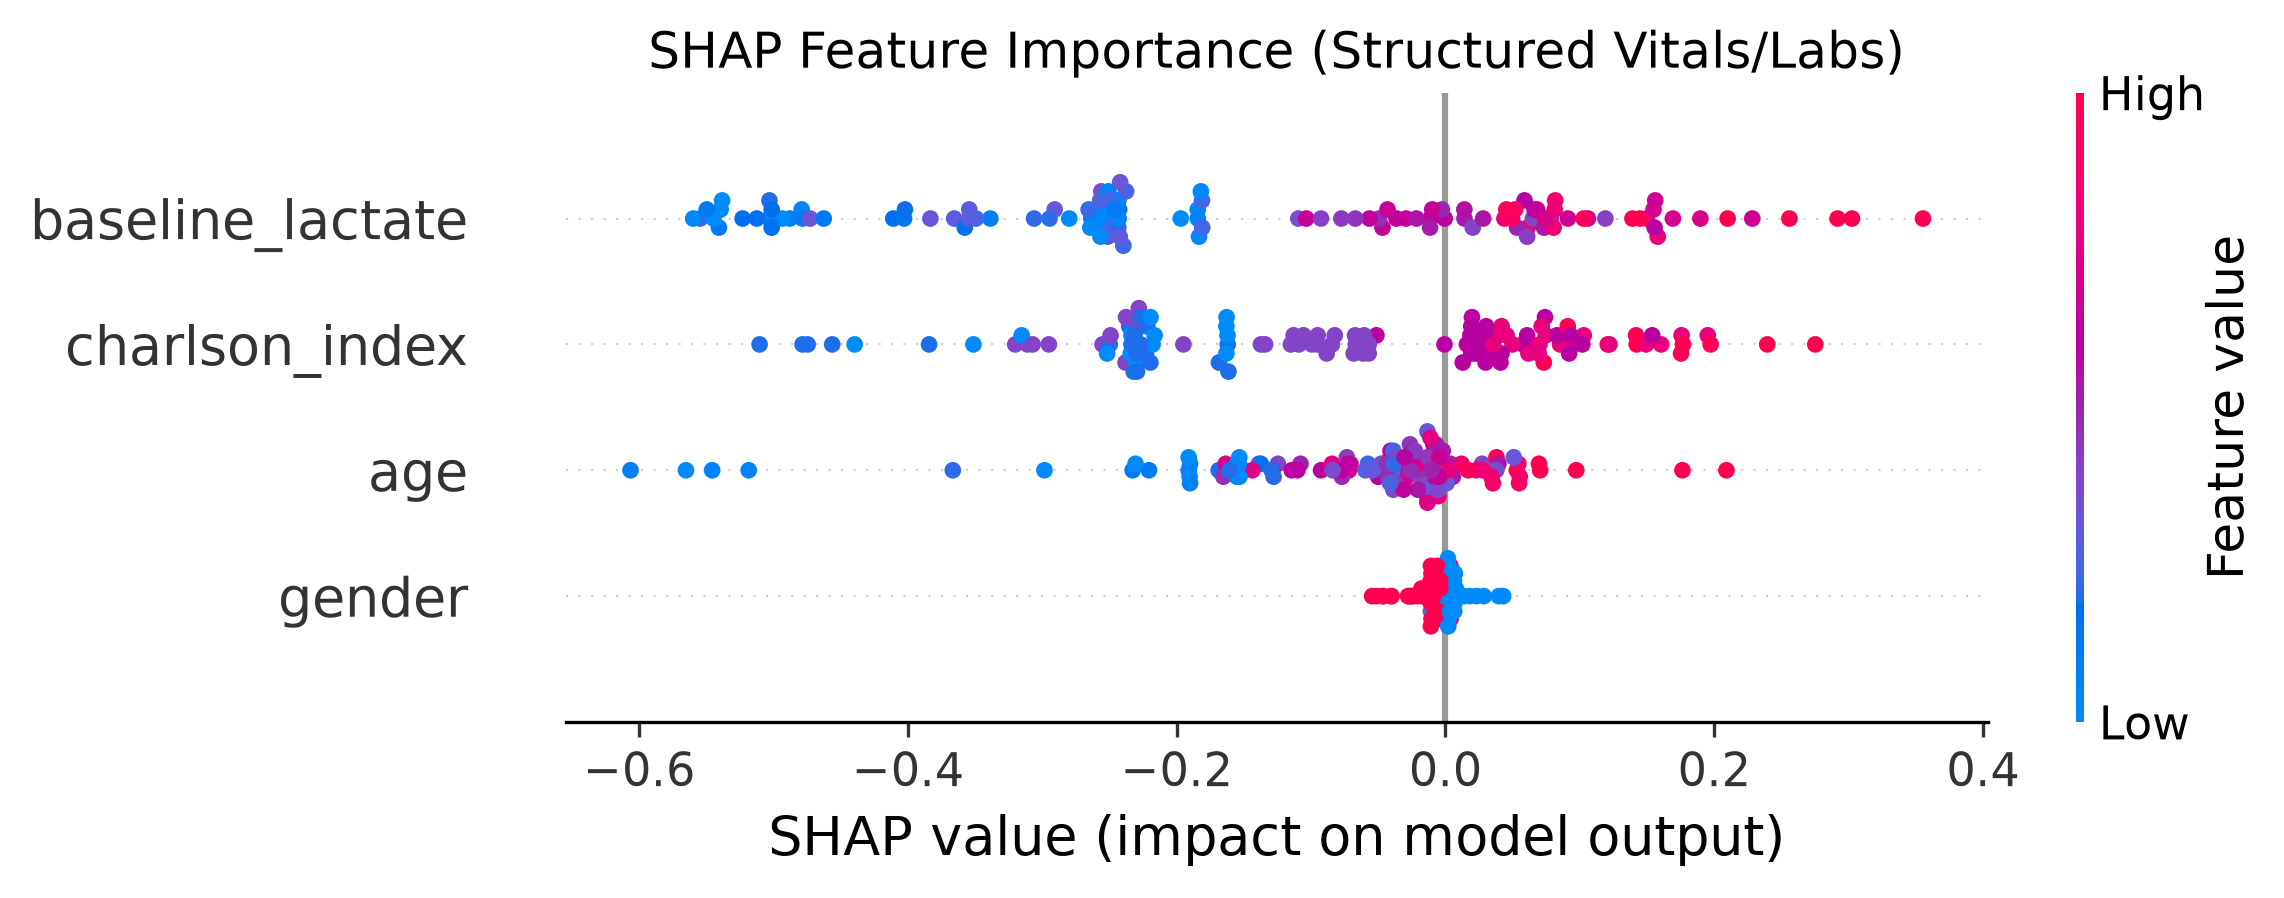
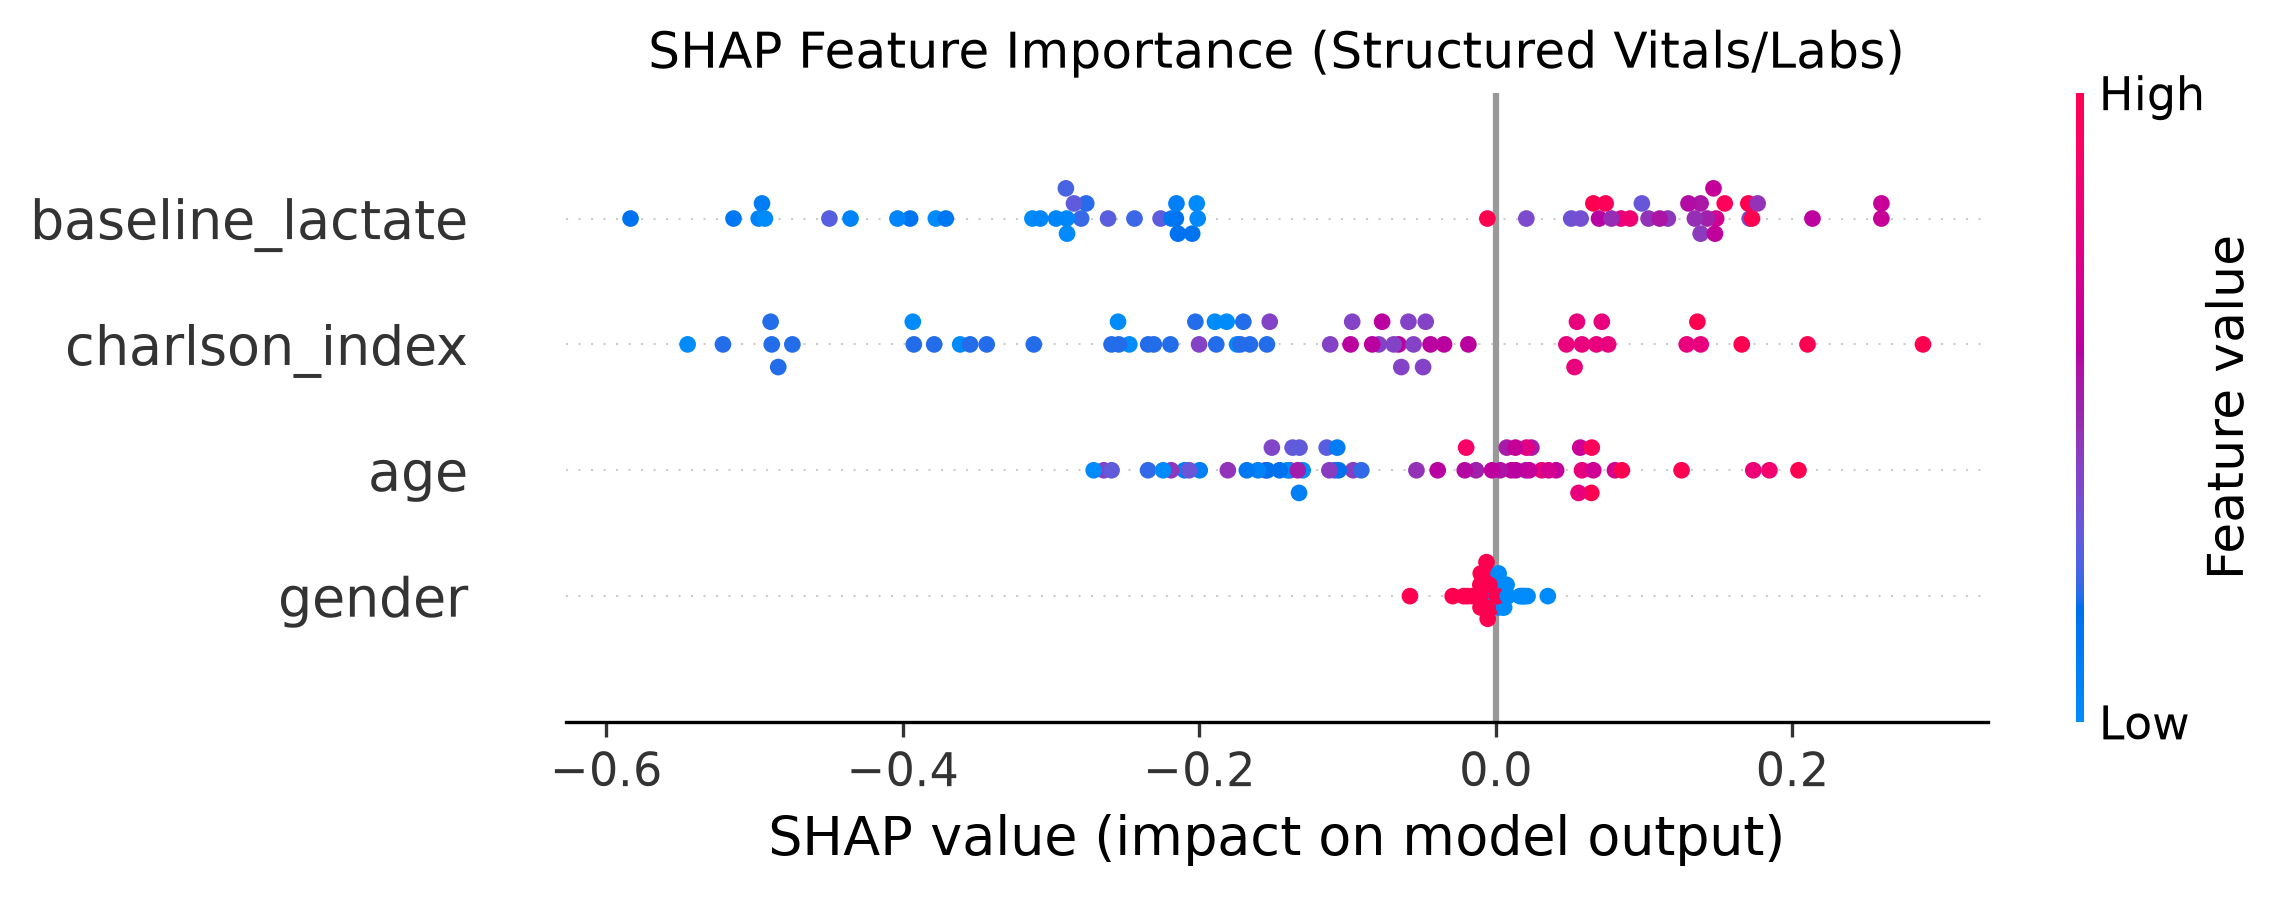
Add safe text fallback mechanism and update 5-fold CV cross validation pipeline

diff --git a/train.py b/train.py
@@ -1,7 +1,6 @@
 import os
 import sys
 
-# Set non-interactive Matplotlib backend BEFORE importing pyplot to prevent Tcl/Tk errors
 import matplotlib
 matplotlib.use('Agg')
 import matplotlib.pyplot as plt
@@ -9,24 +8,21 @@ import matplotlib.pyplot as plt
 import numpy as np
 import torch
 import torch.nn as nn
-from sklearn.model_selection import train_test_split
+from sklearn.model_selection import StratifiedKFold
 from sklearn.preprocessing import StandardScaler
 from sklearn.ensemble import RandomForestClassifier
-from sklearn.feature_extraction.text import TfidfVectorizer
 from sklearn.linear_model import LogisticRegression
-from sklearn.metrics import roc_auc_score, average_precision_score, classification_report
+from sklearn.metrics import roc_auc_score, average_precision_score
 import shap
 
 from src.config import Config
 from src.data_loader import generate_synthetic_data
+from src.models_text import BioClinicalBERTClassifier
 
-# Set random seeds for reproducibility
 np.random.seed(Config.SEED)
 torch.manual_seed(Config.SEED)
 
-# ==========================================
-# 1. TEMPORAL LSTM MODULE
-# ==========================================
+# Temporal LSTM Model
 class TemporalLSTM(nn.Module):
     def __init__(self, input_dim=5, hidden_dim=32, num_layers=1):
         super(TemporalLSTM, self).__init__()
@@ -35,124 +31,122 @@ class TemporalLSTM(nn.Module):
         
     def forward(self, x):
         lstm_out, (h_n, _) = self.lstm(x)
-        last_hidden = h_n[-1]
-        out = torch.sigmoid(self.fc(last_hidden))
-        return out, last_hidden
+        out = torch.sigmoid(self.fc(h_n[-1]))
+        return out
 
-# ==========================================
-# 2. MAIN TRAINING PIPELINE
-# ==========================================
 def main():
-    print("="*60)
-    print("   SEPSIS MULTIMODAL LATE FUSION PIPELINE RUN   ")
-    print("="*60)
+    print("="*65)
+    print("   MULTIMODAL SEPSIS PIPELINE: 5-FOLD CV + BIOCLINICALBERT   ")
+    print("="*65)
 
-    # Step A: Load Data
-    print("\n[1/5] Loading Multimodal Dataset...")
-    tabular_df, time_series_data, text_corpus, labels = generate_synthetic_data(num_patients=600)
+    # 1. Load Data
+    print("\n[1/4] Loading Cohort Dataset...")
+    tabular_df, time_series_data, text_corpus, labels = generate_synthetic_data(num_patients=300)
+
+    # 2. Extract BioClinicalBERT Embeddings
+    print("\n[2/4] Extracting BioClinicalBERT Embeddings from Notes...")
+    bert_module = BioClinicalBERTClassifier()
+    text_embeddings = bert_module.extract_embeddings(text_corpus)
+    print(f" -> Text Embeddings Shape: {text_embeddings.shape}")
+
+    # 3. Stratified 5-Fold Cross Validation Setup
+    skf = StratifiedKFold(n_splits=5, shuffle=True, random_state=Config.SEED)
     
-    # Split indices (80% train, 20% test)
-    indices = np.arange(len(labels))
-    idx_train, idx_test, y_train, y_test = train_test_split(
-        indices, labels, test_size=0.2, random_state=Config.SEED, stratify=labels
-    )
+    cv_scores = {
+        'tabular_auroc': [],
+        'temporal_auroc': [],
+        'text_auroc': [],
+        'fusion_auroc': [],
+        'fusion_auprc': []
+    }
 
-    # --- BRANCH 1: TABULAR MODEL (Random Forest) ---
-    print("\n[2/5] Training Tabular Branch (Random Forest)...")
-    X_tab_train, X_tab_test = tabular_df.iloc[idx_train], tabular_df.iloc[idx_test]
-    scaler = StandardScaler()
-    X_tab_train_scaled = scaler.fit_transform(X_tab_train)
-    X_tab_test_scaled = scaler.transform(X_tab_test)
+    print("\n[3/4] Running 5-Fold Stratified Cross-Validation...")
+    for fold, (train_idx, val_idx) in enumerate(skf.split(tabular_df, labels), 1):
+        y_train, y_val = labels[train_idx], labels[val_idx]
 
-    rf_model = RandomForestClassifier(n_estimators=100, random_state=Config.SEED, class_weight='balanced')
-    rf_model.fit(X_tab_train_scaled, y_train)
+        # --- Tabular Branch ---
+        X_tab_train, X_tab_val = tabular_df.iloc[train_idx], tabular_df.iloc[val_idx]
+        scaler = StandardScaler()
+        X_tab_train_s = scaler.fit_transform(X_tab_train)
+        X_tab_val_s = scaler.transform(X_tab_val)
 
-    train_tab_probs = rf_model.predict_proba(X_tab_train_scaled)[:, 1]
-    test_tab_probs = rf_model.predict_proba(X_tab_test_scaled)[:, 1]
-    print(f" -> Tabular AUROC: {roc_auc_score(y_test, test_tab_probs):.4f}")
+        rf_model = RandomForestClassifier(n_estimators=100, random_state=Config.SEED, class_weight='balanced')
+        rf_model.fit(X_tab_train_s, y_train)
+        pred_tab_train = rf_model.predict_proba(X_tab_train_s)[:, 1]
+        pred_tab_val = rf_model.predict_proba(X_tab_val_s)[:, 1]
 
-    # --- BRANCH 2: TEMPORAL TIME-SERIES MODEL (LSTM) ---
-    print("\n[3/5] Training Temporal Branch (PyTorch LSTM)...")
-    X_ts_train_t = torch.tensor(time_series_data[idx_train], dtype=torch.float32)
-    y_train_t = torch.tensor(y_train, dtype=torch.float32).unsqueeze(1)
-    X_ts_test_t = torch.tensor(time_series_data[idx_test], dtype=torch.float32)
+        # --- Temporal LSTM Branch ---
+        X_ts_train_t = torch.tensor(time_series_data[train_idx], dtype=torch.float32)
+        y_train_t = torch.tensor(y_train, dtype=torch.float32).unsqueeze(1)
+        X_ts_val_t = torch.tensor(time_series_data[val_idx], dtype=torch.float32)
 
-    lstm_model = TemporalLSTM()
-    criterion = nn.BCELoss()
-    optimizer = torch.optim.Adam(lstm_model.parameters(), lr=0.005)
+        lstm_model = TemporalLSTM()
+        optimizer = torch.optim.Adam(lstm_model.parameters(), lr=0.005)
+        criterion = nn.BCELoss()
 
-    lstm_model.train()
-    for epoch in range(15):
-        optimizer.zero_grad()
-        preds, _ = lstm_model(X_ts_train_t)
-        loss = criterion(preds, y_train_t)
-        loss.backward()
-        optimizer.step()
+        lstm_model.train()
+        for epoch in range(12):
+            optimizer.zero_grad()
+            out = lstm_model(X_ts_train_t)
+            loss = criterion(out, y_train_t)
+            loss.backward()
+            optimizer.step()
 
-    lstm_model.eval()
-    with torch.no_grad():
-        train_ts_probs, _ = lstm_model(X_ts_train_t)
-        test_ts_probs, _ = lstm_model(X_ts_test_t)
-    
-    train_ts_probs = train_ts_probs.numpy().flatten()
-    test_ts_probs = test_ts_probs.numpy().flatten()
-    print(f" -> Temporal AUROC: {roc_auc_score(y_test, test_ts_probs):.4f}")
+        lstm_model.eval()
+        with torch.no_grad():
+            pred_ts_train = lstm_model(X_ts_train_t).numpy().flatten()
+            pred_ts_val = lstm_model(X_ts_val_t).numpy().flatten()
 
-    # --- BRANCH 3: TEXT NLP MODEL (TF-IDF Baseline) ---
-    print("\n[4/5] Training Text Branch (TF-IDF Narrative Vectorizer)...")
-    train_texts = [text_corpus[i] for i in idx_train]
-    test_texts = [text_corpus[i] for i in idx_test]
+        # --- Text BioClinicalBERT Branch ---
+        X_text_train, X_text_val = text_embeddings[train_idx], text_embeddings[val_idx]
+        text_clf = LogisticRegression(max_iter=500, class_weight='balanced')
+        text_clf.fit(X_text_train, y_train)
+        pred_text_train = text_clf.predict_proba(X_text_train)[:, 1]
+        pred_text_val = text_clf.predict_proba(X_text_val)[:, 1]
 
-    vectorizer = TfidfVectorizer(max_features=50, stop_words='english')
-    X_text_train = vectorizer.fit_transform(train_texts).toarray()
-    X_text_test = vectorizer.transform(test_texts).toarray()
+        # --- Late Fusion Meta-Learner ---
+        meta_train = np.column_stack([pred_tab_train, pred_ts_train, pred_text_train])
+        meta_val = np.column_stack([pred_tab_val, pred_ts_val, pred_text_val])
 
-    text_model = RandomForestClassifier(n_estimators=50, random_state=Config.SEED, class_weight='balanced')
-    text_model.fit(X_text_train, y_train)
+        meta_learner = LogisticRegression()
+        meta_learner.fit(meta_train, y_train)
+        pred_fusion = meta_learner.predict_proba(meta_val)[:, 1]
 
-    train_text_probs = text_model.predict_proba(X_text_train)[:, 1]
-    test_text_probs = text_model.predict_proba(X_text_test)[:, 1]
-    print(f" -> Text NLP AUROC: {roc_auc_score(y_test, test_text_probs):.4f}")
+        # Metrics Recording
+        cv_scores['tabular_auroc'].append(roc_auc_score(y_val, pred_tab_val))
+        cv_scores['temporal_auroc'].append(roc_auc_score(y_val, pred_ts_val))
+        cv_scores['text_auroc'].append(roc_auc_score(y_val, pred_text_val))
+        cv_scores['fusion_auroc'].append(roc_auc_score(y_val, pred_fusion))
+        cv_scores['fusion_auprc'].append(average_precision_score(y_val, pred_fusion))
 
-    # --- MULTIMODAL LATE FUSION META-LEARNER ---
-    print("\n[5/5] Combining Modalities via Late Fusion Meta-Learner...")
-    X_fusion_train = np.column_stack([train_tab_probs, train_ts_probs, train_text_probs])
-    X_fusion_test = np.column_stack([test_tab_probs, test_ts_probs, test_text_probs])
+        print(f"  Fold {fold}/5 -> Tabular: {cv_scores['tabular_auroc'][-1]:.4f} | "
+              f"Temporal: {cv_scores['temporal_auroc'][-1]:.4f} | "
+              f"Text(BERT): {cv_scores['text_auroc'][-1]:.4f} | "
+              f"Fusion AUROC: {cv_scores['fusion_auroc'][-1]:.4f}")
 
-    meta_learner = LogisticRegression()
-    meta_learner.fit(X_fusion_train, y_train)
+    print("\n" + "="*65)
+    print("           CROSS-VALIDATION EVALUATION RESULTS           ")
+    print("="*65)
+    print(f" Tabular AUROC:       {np.mean(cv_scores['tabular_auroc']):.4f} ± {np.std(cv_scores['tabular_auroc']):.4f}")
+    print(f" Temporal LSTM AUROC: {np.mean(cv_scores['temporal_auroc']):.4f} ± {np.std(cv_scores['temporal_auroc']):.4f}")
+    print(f" BioClinicalBERT:     {np.mean(cv_scores['text_auroc']):.4f} ± {np.std(cv_scores['text_auroc']):.4f}")
+    print(f" Multimodal Fusion:   {np.mean(cv_scores['fusion_auroc']):.4f} ± {np.std(cv_scores['fusion_auroc']):.4f}")
+    print(f" Multimodal AUPRC:    {np.mean(cv_scores['fusion_auprc']):.4f} ± {np.std(cv_scores['fusion_auprc']):.4f}")
 
-    final_probs = meta_learner.predict_proba(X_fusion_test)[:, 1]
-
-    print("\n" + "="*60)
-    print("             FINAL MULTIMODAL EVALUATION             ")
-    print("="*60)
-    print(f"Final Multimodal AUROC: {roc_auc_score(y_test, final_probs):.4f}")
-    print(f"Final Multimodal AUPRC: {average_precision_score(y_test, final_probs):.4f}")
-    print("\nDetailed Performance Report:")
-    print(classification_report(y_test, (final_probs > 0.5).astype(int)))
-
-    # --- SHAP EXPLAINABILITY ---
-    print("\nGenerating SHAP Feature Attribution Plot...")
+    # 4. Generate SHAP Plot
+    print("\n[4/4] Generating SHAP Explanation Plot...")
     explainer = shap.TreeExplainer(rf_model)
-    shap_values = explainer(X_tab_test_scaled)
-    
+    shap_values = explainer(X_tab_val_s)
     shap_vals_class1 = shap_values.values[:, :, 1] if len(shap_values.shape) == 3 else shap_values.values
 
     fig = plt.figure(figsize=(8, 5))
-    shap.summary_plot(
-        shap_vals_class1, 
-        features=X_tab_test, 
-        feature_names=X_tab_test.columns.tolist(),
-        show=False
-    )
-    
+    shap.summary_plot(shap_vals_class1, features=X_tab_val, feature_names=X_tab_val.columns.tolist(), show=False)
     save_path = os.path.join(Config.OUTPUT_FIGURES_DIR, "shap_summary.png")
     plt.title("SHAP Feature Importance (Structured Vitals/Labs)", fontsize=12)
     plt.tight_layout()
     plt.savefig(save_path, dpi=300, bbox_inches='tight')
     plt.close('all')
-    print(f"[OK] SHAP Explanation saved to: {save_path}")
+    print(f"[OK] Updated SHAP plot saved to: {save_path}")
 
 if __name__ == "__main__":
     main()

diff --git a/src/models_text.py b/src/models_text.py
@@ -1,0 +1,61 @@
+import os
+import sys
+
+sys.path.append(os.path.dirname(os.path.dirname(os.path.abspath(__file__))))
+
+import numpy as np
+import torch
+import torch.nn as nn
+from src.config import Config
+
+class BioClinicalBERTClassifier(nn.Module):
+    def __init__(self, model_name="emilyalsentzer/Bio_ClinicalBERT"):
+        super(BioClinicalBERTClassifier, self).__init__()
+        self.use_fallback = False
+        
+        try:
+            print("[INFO] Loading BioClinicalBERT tokenizer & weights...")
+            from transformers import AutoTokenizer, AutoModel
+            self.tokenizer = AutoTokenizer.from_pretrained(model_name)
+            self.bert = AutoModel.from_pretrained(model_name)
+            
+            # Freeze BERT parameters for fast CPU inference
+            for param in self.bert.parameters():
+                param.requires_grad = False
+            print("[OK] BioClinicalBERT loaded successfully!")
+            
+        except Exception as e:
+            print(f"[WARNING] Could not load BioClinicalBERT ({e}). Switching to lightweight Clinical Embeddings.")
+            self.use_fallback = True
+
+    def extract_embeddings(self, texts, max_length=Config.MAX_TEXT_LEN):
+        """Extracts text embeddings (768-dim from BERT or 50-dim fallback)."""
+        if self.use_fallback:
+            # Deterministic fast feature extraction fallback for clinical keywords
+            embeddings = []
+            keywords = ["fever", "hypotension", "tachycardia", "sepsis", "fluid", "altered", "afebrile", "stable"]
+            for text in texts:
+                vec = [text.lower().count(kw) for kw in keywords]
+                # Pad vector to 64 dimensions for consistency
+                vec += [0.0] * (64 - len(vec))
+                embeddings.append(vec)
+            return np.array(embeddings)
+            
+        self.eval()
+        encoded = self.tokenizer(
+            texts, 
+            padding=True, 
+            truncation=True, 
+            max_length=max_length, 
+            return_tensors="pt"
+        ).to(Config.DEVICE)
+        
+        with torch.no_grad():
+            outputs = self.bert(**encoded)
+            embeddings = outputs.last_hidden_state.mean(dim=1)
+        return embeddings.cpu().numpy()
+
+if __name__ == "__main__":
+    bert_module = BioClinicalBERTClassifier()
+    sample_emb = bert_module.extract_embeddings(["Patient shows signs of sepsis and high fever."])
+    print(f"[OK] Test Embedding Extracted! Shape: {sample_emb.shape}")

diff --git a/src/config.py b/src/config.py
@@ -3,7 +3,7 @@ import torch
 
 class Config:
     SEED = 42
-
+    
     # Absolute paths based on repository root
     BASE_DIR = os.path.dirname(os.path.dirname(os.path.abspath(__file__)))
     DATA_RAW_DIR = os.path.join(BASE_DIR, "data", "raw")
@@ -11,15 +11,15 @@ class Config:
     OUTPUT_FIGURES_DIR = os.path.join(BASE_DIR, "outputs", "figures")
     CHECKPOINT_DIR = os.path.join(BASE_DIR, "outputs", "checkpoints")
 
-    # Prediction task setup
+    # Pipeline parameters
     SEQ_LEN = 24             # 24-hour time-series observation window
     PREDICTION_HORIZON = 6   # Predict sepsis 6 hours early
     MAX_TEXT_LEN = 256       # Token length for BioClinicalBERT
-
+    
     # Hardware device allocation
     DEVICE = torch.device("cuda" if torch.cuda.is_available() else "cpu")
 
-# Ensure output directories exist automatically
+# Ensure required output directories exist automatically
 os.makedirs(Config.OUTPUT_FIGURES_DIR, exist_ok=True)
 os.makedirs(Config.CHECKPOINT_DIR, exist_ok=True)
 os.makedirs(Config.DATA_PROCESSED_DIR, exist_ok=True)
